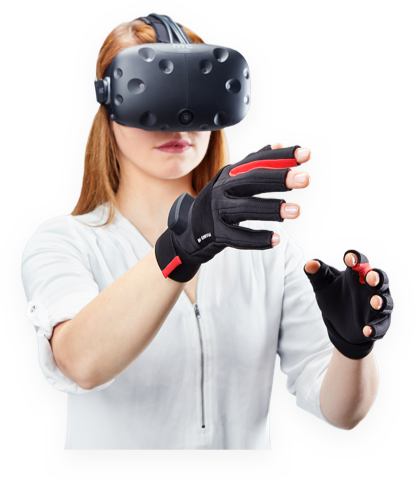
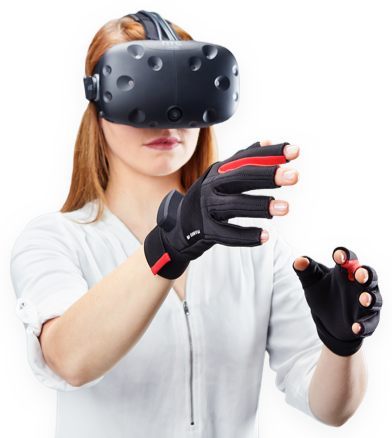
Minor fixes

diff --git a/src/components/index/About.vue b/src/components/index/About.vue
@@ -80,10 +80,11 @@ export default {
 }
 .article__content {
   width: 50rem;
-  padding: 2rem 0;
+  padding: 2rem 0 6rem;
   border-radius: 5px;
   background-color: $color-white;
   box-shadow: $shadow;
+  position: relative;
 }
 .article__header {
   display: flex;
@@ -137,7 +138,10 @@ export default {
   padding-left: 2rem;
 }
 .article__action {
-  margin: 0 auto;
+  position: absolute;
+  bottom: 2rem;
+  left: calc(50% - 8rem);
+  z-index: 10;
 }
 .about__content {
   width: 40%;
@@ -161,7 +165,7 @@ export default {
   bottom: 0;
   left: $padding-page / 2;
   width: 30%;
-  height: 40rem;
+  height: 37rem;
   background: url('../../assets/img/vrwoman.png') no-repeat center bottom / contain;
 }
 .banner__line {
